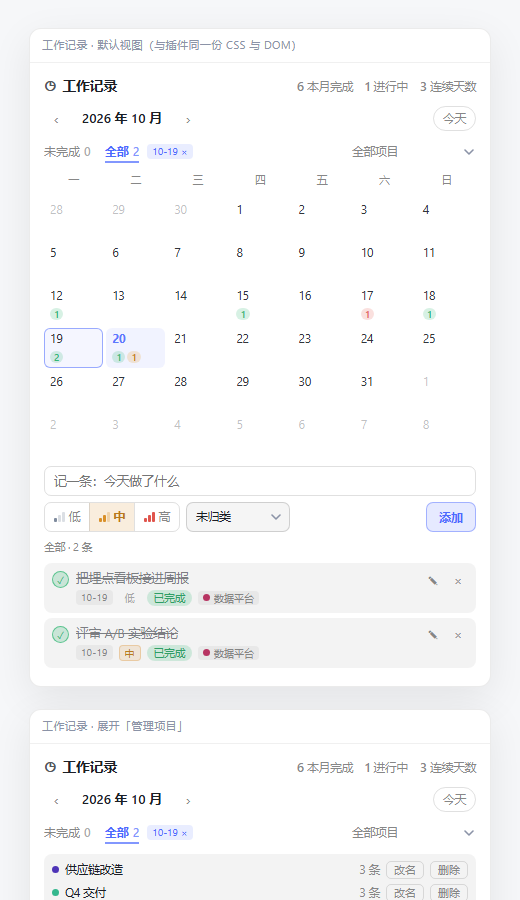
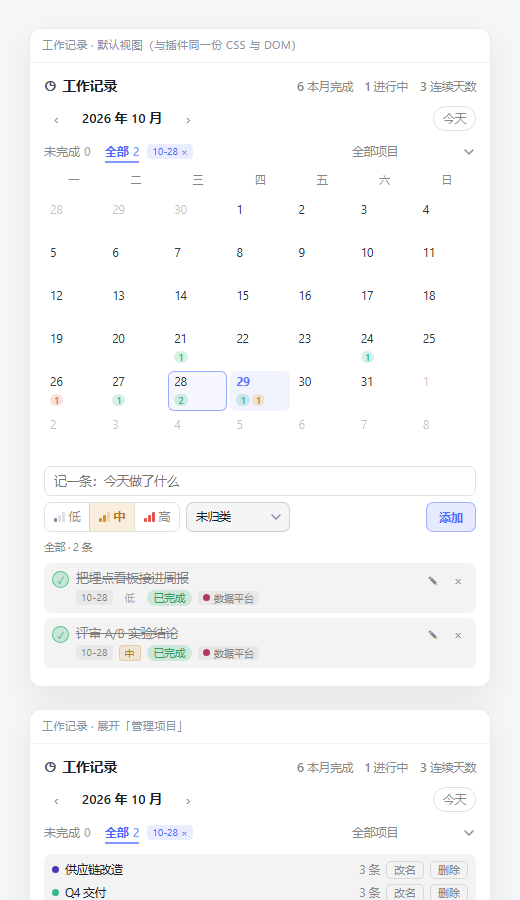
fix(ui): 长备注两行截断 + 点击展开；编辑改多行输入；补 README

diff --git a/client/client.js b/client/client.js
@@ -173,7 +173,10 @@ window.__ModuleLoader__.load({
 .wl-check.is-on { background: rgba(53,184,119,.22); border-color: rgba(53,184,119,.75); color: #35b877; }
 .wl-body { flex: 1; min-width: 0; display: flex; flex-direction: column; gap: 2px; }
 .wl-title { font-size: 12.5px; line-height: 1.35; word-break: break-word; }
-.wl-note { font-size: 10.5px; line-height: 15px; color: var(--wl-muted); overflow: hidden; text-overflow: ellipsis; white-space: nowrap; min-width: 0; }
+/* 备注：默认最多两行，点开看全文（长备注不再被挤成一行省略号） */
+.wl-note { font-size: 11px; line-height: 15px; color: var(--wl-muted); margin-top: 2px; white-space: pre-wrap; word-break: break-word; cursor: pointer; display: -webkit-box; -webkit-line-clamp: 2; -webkit-box-orient: vertical; overflow: hidden; }
+.wl-note:hover { color: inherit; }
+.wl-note.is-open { display: block; -webkit-line-clamp: none; overflow: visible; }
 .wl-pill { flex: none; font-size: 10.5px; line-height: 16px; padding: 0 7px; border-radius: 999px; margin-top: 1px; }
 .wl-pill.s-todo { background: rgba(127,127,127,.16); color: var(--wl-muted); }
 .wl-pill.s-doing { background: rgba(232,163,61,.2); color: #c98421; }
@@ -186,7 +189,8 @@ window.__ModuleLoader__.load({
 .wl-edit-row { display: flex; align-items: center; gap: 6px; }
 .wl-edit input, .wl-edit select { height: 30px; box-sizing: border-box; font: inherit; font-size: 12px; padding: 0 8px; border-radius: 6px; border: 1px solid var(--wl-line); background: transparent; color: inherit; min-width: 0; }
 .wl-edit input[name="title"] { flex: 1; }
-.wl-edit input[name="note"] { flex: 1; }
+.wl-edit textarea { width: 100%; box-sizing: border-box; font: inherit; font-size: 12px; line-height: 1.45; padding: 6px 8px; border-radius: 6px; border: 1px solid var(--wl-line); background: transparent; color: inherit; resize: vertical; min-height: 46px; }
+.wl-edit-foot { justify-content: flex-start; }
 .wl-edit input:focus, .wl-edit select:focus { outline: none; border-color: rgba(77,107,254,.55); }
 .wl-err { font-size: 11.5px; color: #e5645c; }
 .wl-notice { font-size: 11.5px; color: #2f9e66; }
@@ -363,6 +367,7 @@ window.__ModuleLoader__.load({
         projConfirm: '',
         editing: '',
         confirming: '',
+        noteOpen: new Set(),
         loading: true,
         error: '',
         notice: '',
@@ -667,8 +672,10 @@ window.__ModuleLoader__.load({
             + renderProjectPicker(task.project || '')
             + '</div>'
             + '<div class="wl-edit-row">'
+            + '<textarea name="note" maxlength="4000" rows="2" placeholder="备注（可留空，支持多行）">' + esc(task.note || '') + '</textarea>'
+            + '</div>'
+            + '<div class="wl-edit-row wl-edit-foot">'
             + renderPrioritySeg(currentPriority)
-            + '<input name="note" value="' + esc(task.note || '') + '" maxlength="4000" placeholder="备注（可留空）" />'
             + '</div>'
             + '</form>'
             + '</div>'
@@ -677,7 +684,7 @@ window.__ModuleLoader__.load({
         const meta = STATUS_META[task.status] || STATUS_META.todo
         const done = task.status === 'done'
         const priMeta = PRIORITY_META[currentPriority]
-        // 标题独占一行（长标题不再被日期/状态挤成三行）；日期 · 优先级 · 状态 · 项目 · 备注 收到第二行
+        // 第一行标题；第二行元信息；备注单独一行，最多两行、点开看全文
         const metaParts = [
           dateChip,
           '<button class="wl-pri p-' + currentPriority + '" data-act="priority" data-id="' + esc(task.id) + '" title="优先级：' + priMeta.label + '（点击切换）">' + priMeta.label + '</button>',
@@ -686,12 +693,17 @@ window.__ModuleLoader__.load({
         if (task.project) {
           metaParts.push('<span class="wl-proj"><i class="wl-dot" style="background:' + projectColor(task.project) + '"></i>' + esc(task.project) + '</span>')
         }
-        if (task.note) metaParts.push('<span class="wl-note">' + esc(task.note) + '</span>')
+        const noteOpen = state.noteOpen.has(task.id)
+        const noteHtml = task.note
+          ? '<div class="wl-note' + (noteOpen ? ' is-open' : '') + '" data-act="note" data-id="' + esc(task.id) + '"'
+            + ' title="' + (noteOpen ? '点击收起' : '点击查看全文') + '">' + esc(task.note) + '</div>'
+          : ''
         return '<div class="wl-row' + (done ? ' is-done' : '') + '" data-id="' + esc(task.id) + '">'
           + '<button class="wl-check' + (done ? ' is-on' : '') + '" data-act="toggle" data-id="' + esc(task.id) + '" title="' + (done ? '标记为待开始' : '标记完成') + '">✓</button>'
           + '<div class="wl-body">'
           + '<div class="wl-title">' + esc(task.title) + '</div>'
           + '<div class="wl-meta">' + metaParts.join('') + '</div>'
+          + noteHtml
           + '</div>'
           + '<button class="wl-icon" data-act="edit" data-id="' + esc(task.id) + '" title="编辑">✎</button>'
           + '<button class="wl-icon wl-danger" data-act="del" data-id="' + esc(task.id) + '" title="删除">' + (state.confirming === task.id ? '确认?' : '×') + '</button>'
@@ -893,6 +905,13 @@ window.__ModuleLoader__.load({
           }
           return
         }
+        // 备注：默认两行截断，点开看全文
+        if (act === 'note') {
+          if (state.noteOpen.has(id)) state.noteOpen.delete(id)
+          else state.noteOpen.add(id)
+          render()
+          return
+        }
         if (act === 'edit') {
           state.editing = state.editing === id ? '' : id
           state.confirming = ''
@@ -1005,7 +1024,7 @@ window.__ModuleLoader__.load({
           save({
             id,
             title,
-            note: String(form.querySelector('input[name="note"]').value || ''),
+            note: String(form.querySelector('textarea[name="note"]').value || ''),
             project: readProjectPick(form),
             date: String(form.querySelector('input[name="date"]').value || todayStr()),
             status: String(form.querySelector('select[name="status"]').value || 'todo'),

diff --git a/README.md b/README.md
@@ -9,6 +9,7 @@
 - **按天记录**：每条任务挂在某一天上，标题 + 备注，状态四档：
   - `待开始` / `进行中` / `已完成` / `已阻塞`
   - 点圆圈直接完成/取消完成；点状态胶囊按「待开始 → 进行中 → 已完成 → 已阻塞」循环
+  - 备注单独一行显示、最长两行，**点一下展开全文**（编辑时是多行输入框，支持换行）
 - **项目归类**：每条任务可以挂一个项目（下拉选择，也可以在下拉里「＋ 新建项目…」），没填就是「未归类」
   - 项目颜色由名字哈希得出，不用配置；切换筛选时日历、明细、顶部统计一起变
   - 「管理项目」可**改名**（一并改掉该项目的所有任务；改成已有名字就是合并）和**删除**（任务退回未归类，不删任务）
